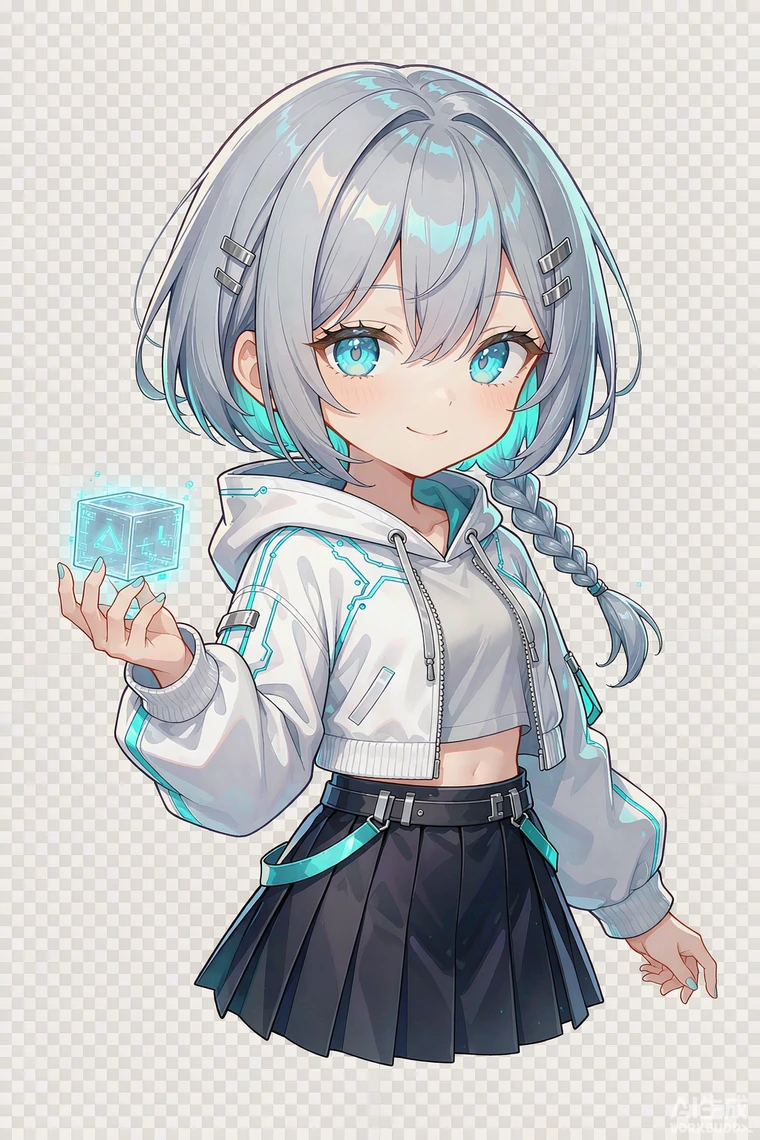
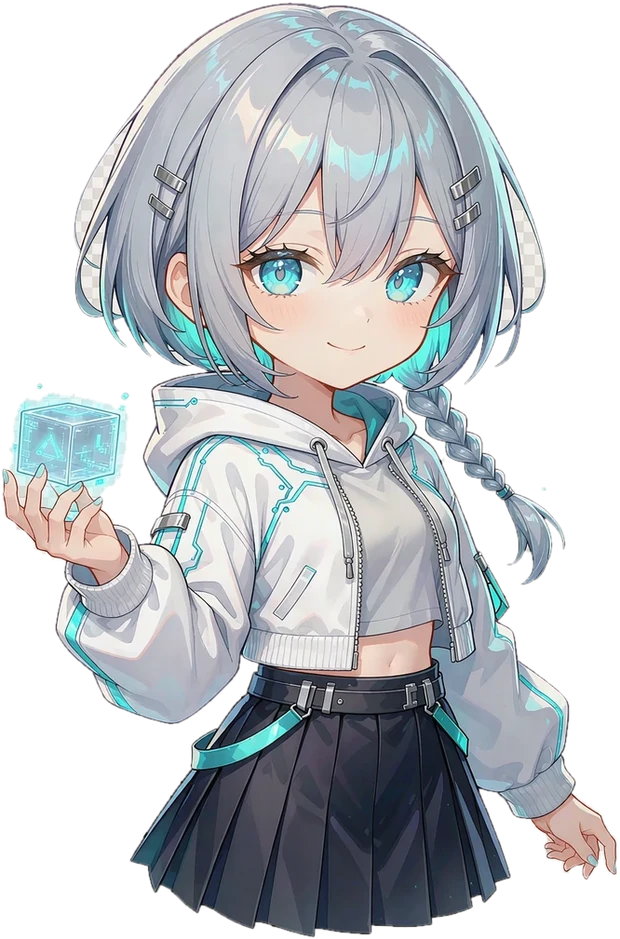
chore: 文本文件统一为 LF，避免整文件换行差异

diff --git a/src/client/pages/Group.tsx b/src/client/pages/Group.tsx
@@ -77,10 +77,10 @@ const copyZh: Copy = {
   selfPreview: "本机预览",
   share: "共享屏幕",
   stopShare: "停止共享",
-  camera: "摄像头",
-  cameraOff: "关闭摄像头",
-  mic: "麦克风",
-  micOff: "关闭麦克风",
+  camera: "关闭摄像头",
+  cameraOff: "打开摄像头",
+  mic: "关闭麦克风",
+  micOff: "打开麦克风",
   chat: "聊天",
   chatPlaceholder: "说点什么…",
   send: "发送",
@@ -110,10 +110,10 @@ const copyEn: Copy = {
   selfPreview: "Your preview",
   share: "Share screen",
   stopShare: "Stop sharing",
-  camera: "Camera",
-  cameraOff: "Camera off",
-  mic: "Microphone",
-  micOff: "Mic off",
+  camera: "Turn camera off",
+  cameraOff: "Turn camera on",
+  mic: "Mute mic",
+  micOff: "Unmute mic",
   chat: "Chat",
   chatPlaceholder: "Say something…",
   send: "Send",
@@ -153,7 +153,7 @@ function Lobby({ locale, copy }: { locale: "zh" | "en"; copy: Copy }) {
     <div className="flex h-full w-full items-center justify-center px-5">
       <form className="glass w-full max-w-md rounded-3xl p-8" onSubmit={submit}>
         <div className="flex items-center gap-3">
-          <img alt="" aria-hidden="true" className="h-20 w-auto drop-shadow-[0_10px_24px_rgba(0,0,0,0.6)]" src="/art/mascot.webp" />
+          <img alt="" aria-hidden="true" className="h-24 w-auto drop-shadow-[0_10px_24px_rgba(0,0,0,0.6)]" src="/art/mascot.webp" />
           <div>
             <h1 className="text-xl font-semibold tracking-tight text-white">{copy.lobbyTitle}</h1>
             <p className="mt-1 text-xs leading-relaxed text-sky-100/50">{copy.lobbyHint}</p>

diff --git a/src/client/styles.css b/src/client/styles.css
@@ -1102,8 +1102,8 @@ html[data-native-scrollbars="true"]::-webkit-scrollbar {
 .liushui-mascot-bubble {
   position: relative;
   margin-bottom: 26px;
-  max-width: 208px;
-  padding: 11px 26px 11px 13px;
+  max-width: 244px;
+  padding: 12px 24px 12px 14px;
   border: 1px solid rgb(255 255 255 / 0.1);
   border-radius: 14px 14px 14px 4px;
   background: linear-gradient(160deg, rgb(12 20 30 / 0.86), rgb(6 10 16 / 0.78));
@@ -1120,8 +1120,8 @@ html[data-native-scrollbars="true"]::-webkit-scrollbar {
 
 .liushui-mascot-bubble p {
   margin: 0;
-  font-size: 11.5px;
-  line-height: 1.65;
+  font-size: 12px;
+  line-height: 1.72;
   letter-spacing: 0.01em;
   color: rgb(226 240 250 / 0.92);
 }
